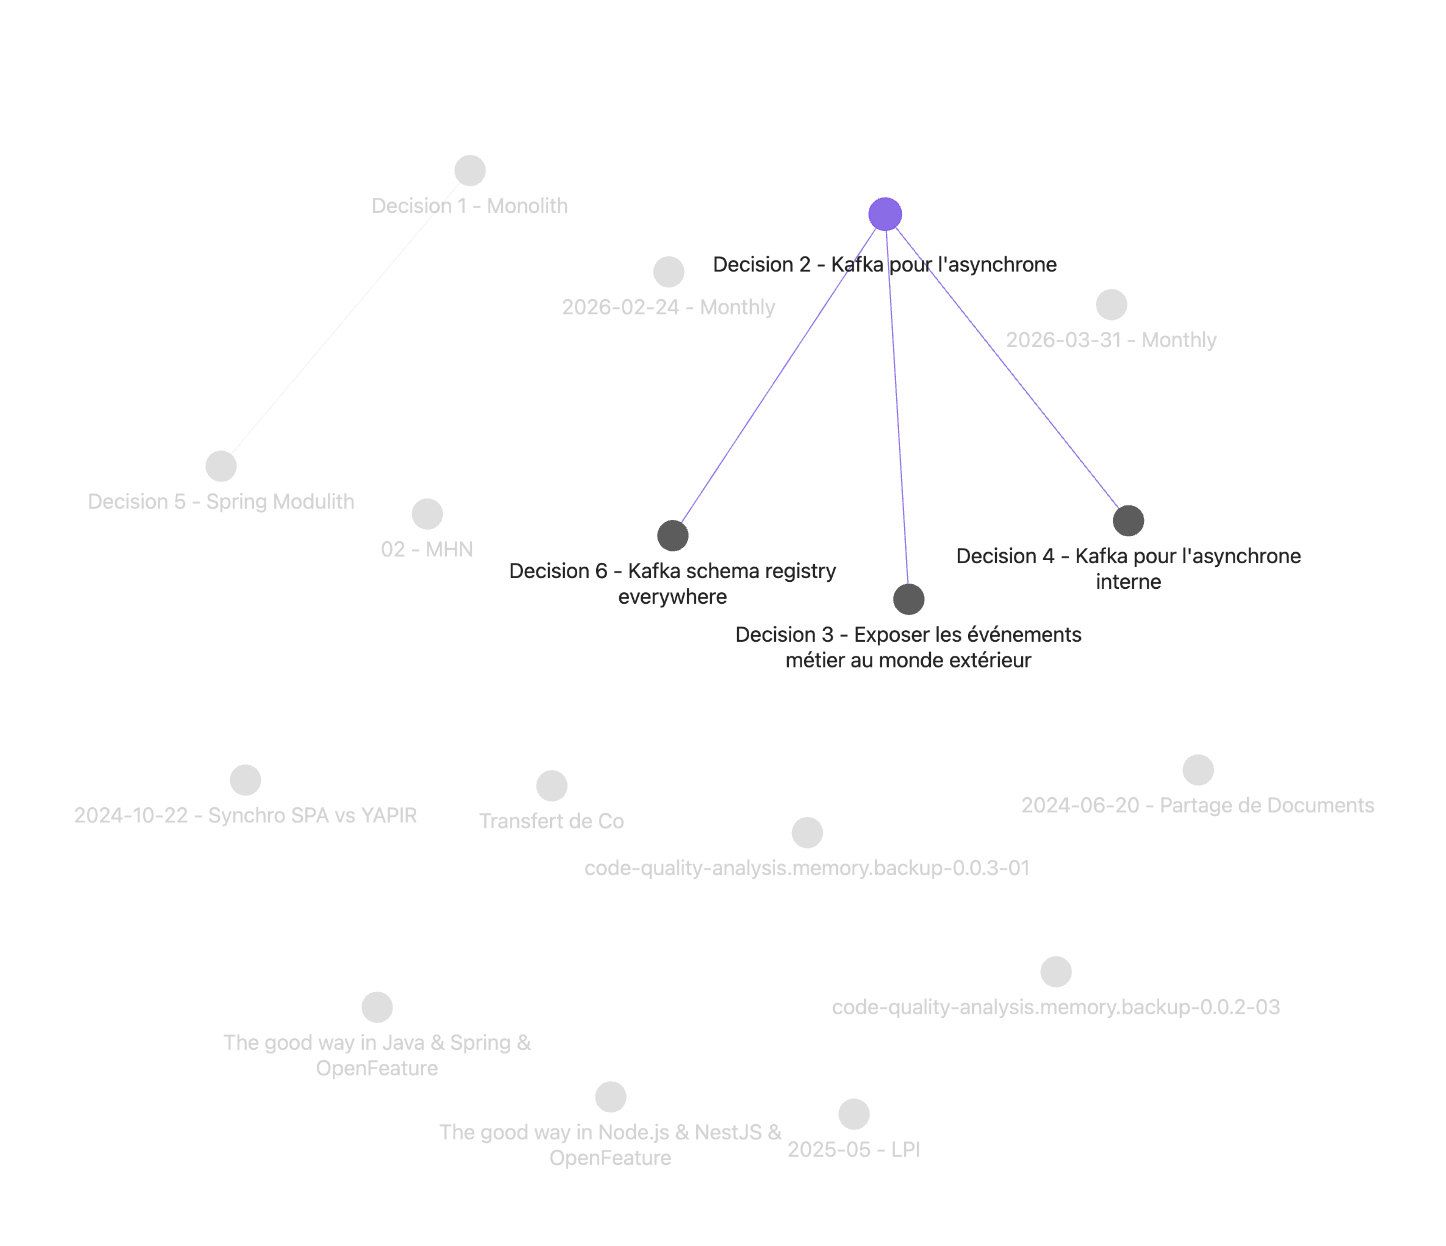
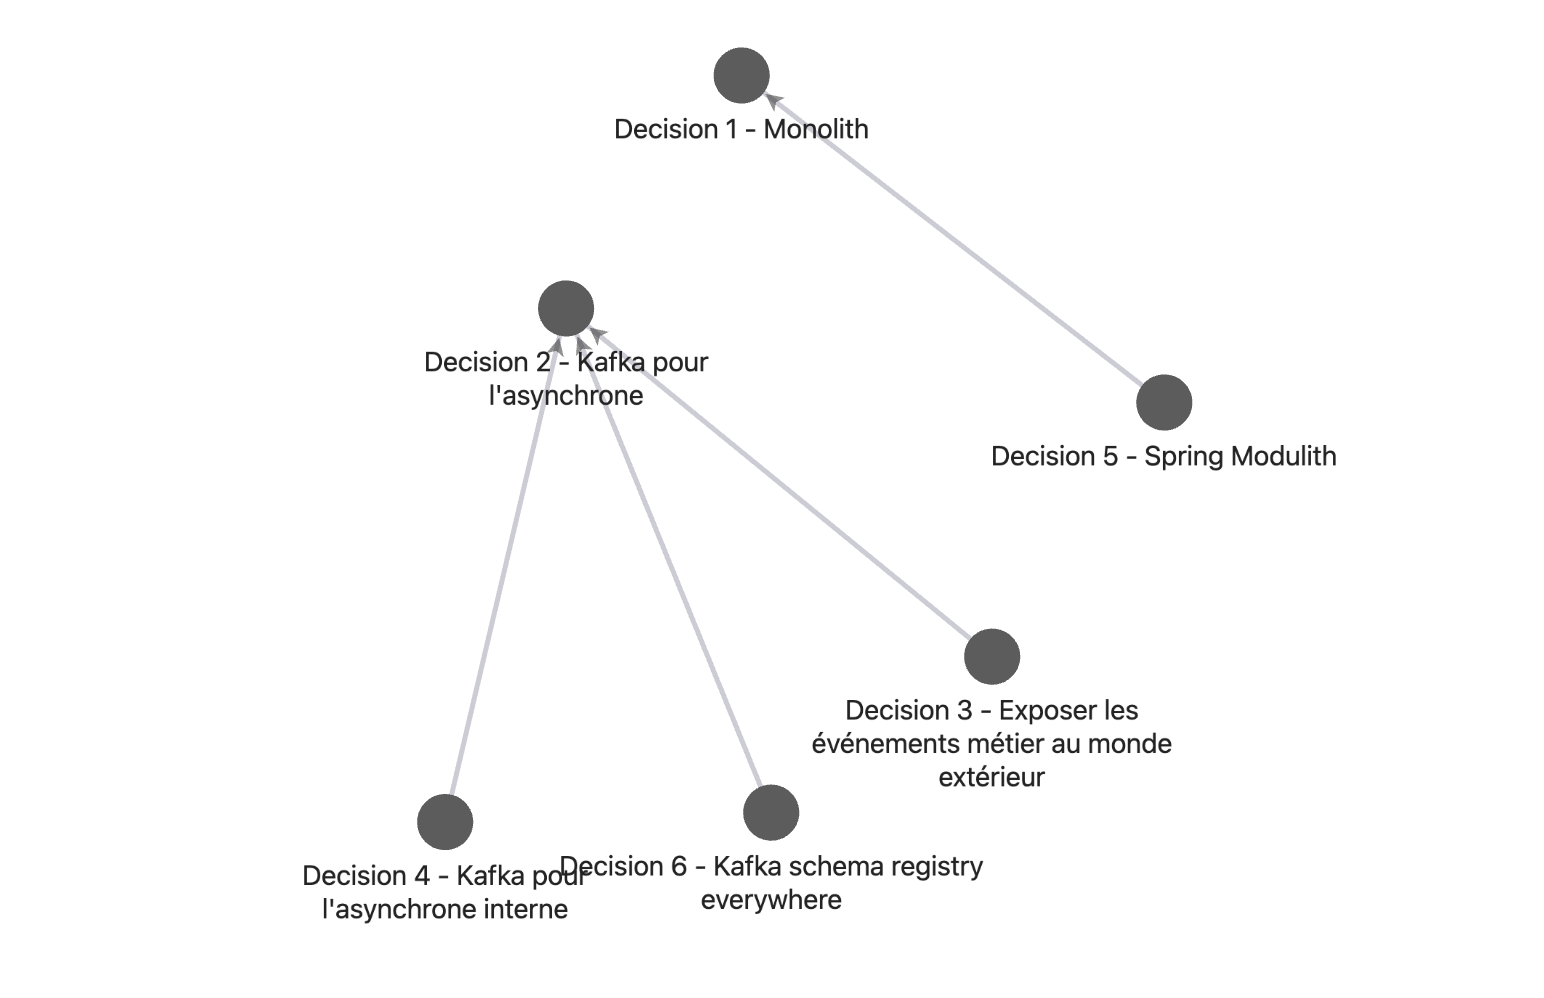
revue des questions possibles

diff --git a/slides/13-possible-questions/02-cynefin-complex.md b/slides/13-possible-questions/02-cynefin-complex.md
@@ -1,4 +1,4 @@
-## Question - et dans le domaine Complexe ?
+## Et dans le domaine Complexe ?
 
 On a abordé le domaine compliqué car c'est dans ce dernier que les ADRs excellent.
 
@@ -9,7 +9,7 @@ Dans le domaine complexe, on écrit un ADR ou pas ?
 
 Oui, mais pas sous la même forme.
 
-Ce qu'on propose à ce moment là, c'est de mener des expérience et des les consigner dans des "Experiment Records".
+Ce qu'on propose à ce moment là, c'est de mener des expériences et des les consigner dans des "Experiment Records".
 
 Une fois que vous aurez mieux compris la dynamique du problème, vous basculerait surement vers le domaine Compliqué, donc vous pourrez prendre une décision plus éclairée en reprenant les ER dans le Contexte de la décision visée par l'ADR.
 

diff --git a/slides/13-possible-questions/00-cost.md b/slides/13-possible-questions/00-cost.md
@@ -1,4 +1,4 @@
-## Question - et l'evaluation du coût dans tout ça ?
+## Et l'evaluation du coût dans tout ça ?
 
 Étrangement, le coût n'est pas abordé dans cette préz.
 À quel moment vous mettez ce critère dans la balance ?

diff --git a/slides/13-possible-questions/01-who-decides.md b/slides/13-possible-questions/01-who-decides.md
@@ -1,4 +1,4 @@
-## Question - qui décide en fin de compte ?
+## Qui décide en fin de compte ?
 
 On a parlé de processus mais pas vraiment d'acteur.
 On a vaguement parlé des experts, mais pas plus.

diff --git a/slides/13-possible-questions/99-obsidian.md b/slides/13-possible-questions/99-obsidian.md
@@ -1,4 +1,4 @@
-## Question - Exemple liens ADRs dans Obsidian
+## Exemple liens ADRs dans Obsidian
 
 !image(../images/decision_revision_impact.png, , , 400)
 